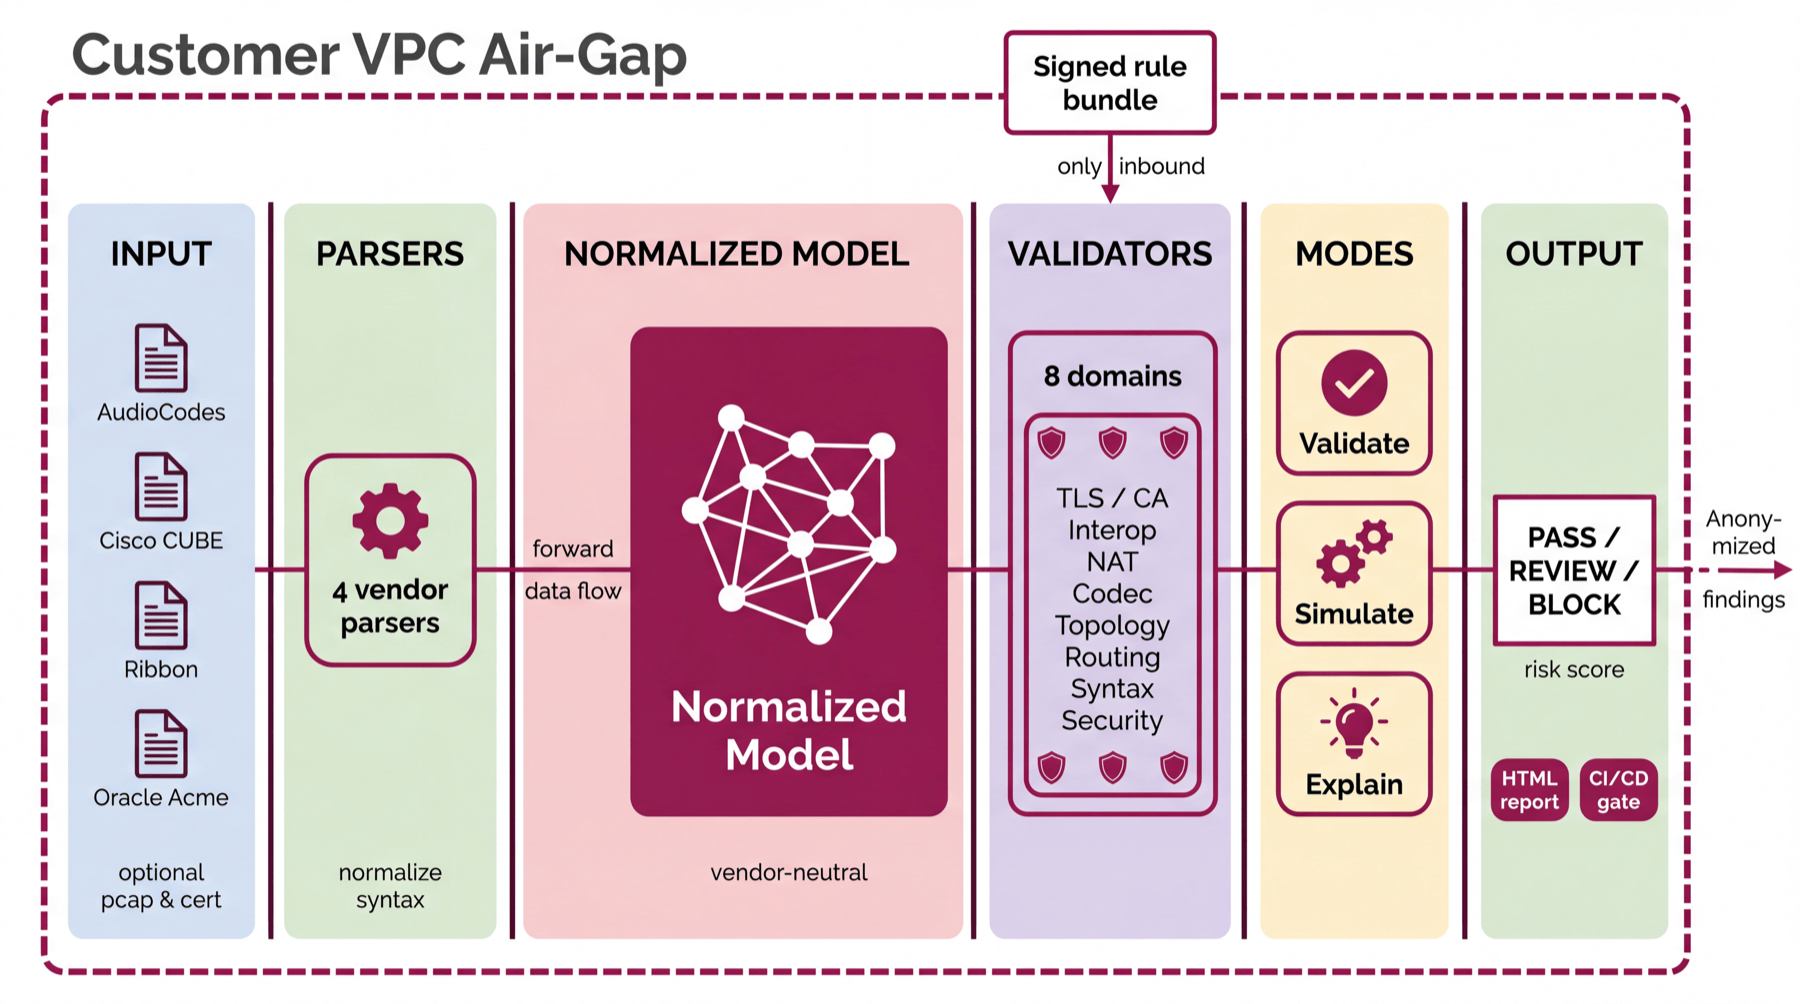
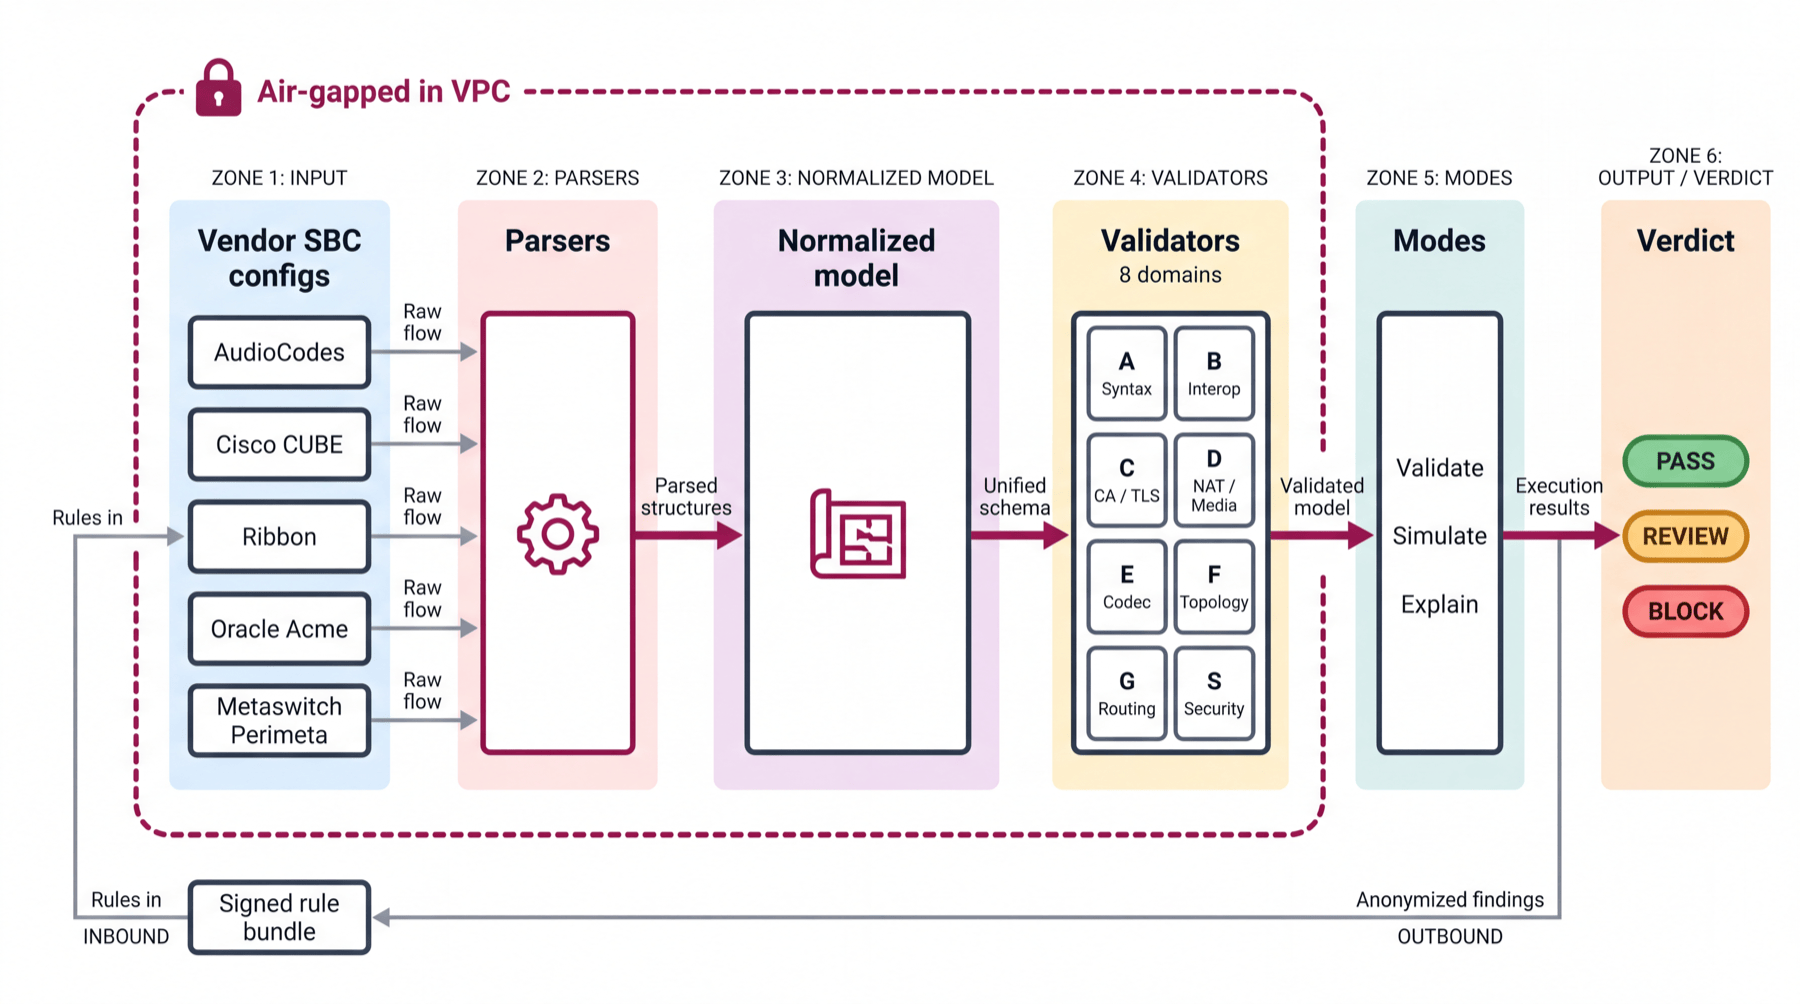
marketing: 5-vendor architecture diagram + business-case copy
Regenerated the canonical architecture diagram to include the 5th vendor
(Metaswitch Perimeta) via the refined PaperBanana pipeline (generate_refined,
text-mode critic, 1 render, $0.32, 95% confidence). Six-zone air-gapped pipeline:
INPUT (5 vendors) -> Parsers -> Normalized model -> Validators (8 domains) ->
Modes -> Verdict, with the signed-rule-bundle-in / anonymized-findings-out
boundary. New 4K master + 712K web copy (sips -Z 1800 then pngquant 88-98,
visually lossless for flat vector, matches the old web weight).

business-case.html: alt-text now lists all 5 vendors (dropped the awkward
'a fifth has since been added' parenthetical); 'Local-first validator: 4 vendors'
-> 5. diagrams/README.md process doc updated to spec 5 vendors in the INPUT zone.

diff --git a/marketing/business-case.html b/marketing/business-case.html
@@ -514,7 +514,7 @@
     </div>
     <p class="reveal" style="margin-top:30px;color:#fff;font-weight:600;font-size:16.5px;max-width:70ch">Plus HA-drift diff against a known-good baseline, fleet readiness reports, and a CI/CD gate that catches non-compliant config before it reaches the change window, not after.</p>
     <figure class="reveal" style="--d:240ms;margin:48px 0 0;padding:0">
-      <img src="diagrams/sbc-autoops-architecture-web.png" alt="SBC-AutoOps architecture: four vendor SBC configs (AudioCodes, Cisco CUBE, Ribbon, Oracle Acme) are normalized into one vendor-neutral model, validated across eight domains in three modes, producing a PASS / REVIEW / BLOCK verdict. The whole pipeline runs air-gapped inside the customer VPC, with only a signed rule bundle inbound and only anonymized findings outbound. (A fifth vendor, Metaswitch Perimeta, has since been added.)" loading="lazy" style="width:100%;height:auto;display:block;border-radius:14px;border:1px solid rgba(255,255,255,.12);background:#fff">
+      <img src="diagrams/sbc-autoops-architecture-web.png" alt="SBC-AutoOps architecture: five vendor SBC configs (AudioCodes, Cisco CUBE, Ribbon, Oracle Acme, Metaswitch Perimeta) are normalized into one vendor-neutral model, validated across eight domains in three modes, producing a PASS / REVIEW / BLOCK verdict. The whole pipeline runs air-gapped inside the customer VPC, with only a signed rule bundle inbound and only anonymized findings outbound." loading="lazy" style="width:100%;height:auto;display:block;border-radius:14px;border:1px solid rgba(255,255,255,.12);background:#fff">
       <figcaption style="margin-top:14px;color:rgba(255,255,255,.62);font-size:14px;max-width:78ch">One independent layer, five vendors, eight domains. Configs never leave your environment: the only thing that crosses the boundary inbound is a signed rule bundle, and the only thing that can leave is anonymized findings you opt into.</figcaption>
     </figure>
   </div>
@@ -666,7 +666,7 @@
       <div class="card hl reveal"><span class="seg">Shipped · running today</span>
         <h3 style="margin-top:10px">The validator, in production form</h3>
         <ul class="rlist done">
-          <li>Local-first validator: 4 vendors normalized to one model</li>
+          <li>Local-first validator: 5 vendors normalized to one model</li>
           <li>8 validation domains, including the 2026 CA and EKU checks</li>
           <li>Validate, simulate, and explain, plus HA-drift diff</li>
           <li>Fleet readiness reports and a CI/CD gate</li>

diff --git a/marketing/diagrams/README.md b/marketing/diagrams/README.md
@@ -5,7 +5,7 @@ Canonical artifacts, and exactly how to reproduce them, so no session re-derives
 ## Files
 | File | What it is | Engine |
 |---|---|---|
-| `sbc-autoops-architecture-refined.png` | **Canonical architecture** (4K master). Six-zone air-gapped pipeline: INPUT (AudioCodes/Cisco CUBE/Ribbon/Oracle Acme) → PARSERS → NORMALIZED MODEL → VALIDATORS (8 domains) → MODES (validate/simulate/explain) → OUTPUT (PASS/REVIEW/BLOCK). Signed rule bundle "only inbound", anonymized findings out. | researchgravity refined pipeline |
+| `sbc-autoops-architecture-refined.png` | **Canonical architecture** (4K master). Six-zone air-gapped pipeline: INPUT (AudioCodes/Cisco CUBE/Ribbon/Oracle Acme/Metaswitch Perimeta) → PARSERS → NORMALIZED MODEL → VALIDATORS (8 domains) → MODES (validate/simulate/explain) → OUTPUT (PASS/REVIEW/BLOCK). Signed rule bundle "only inbound", anonymized findings out. | researchgravity refined pipeline |
 | `sbc-autoops-architecture-web.png` | 1800px web copy of the above (embedded in `business-case.html` #how). | `sips -Z 1800` |
 | `sbc-autoops-architecture.png` | First-pass architecture (raw nano-banana, no critic). Superseded; kept as alt. | nano-banana-pro raw |
 | `sbc-autoops-positioning.png` | Positioning chart: call-life timeline (red X at TLS handshake) + three coverage bars (AIOps blind / single-vendor siloed / SBC-AutoOps pre-deploy). | nano-banana raw |